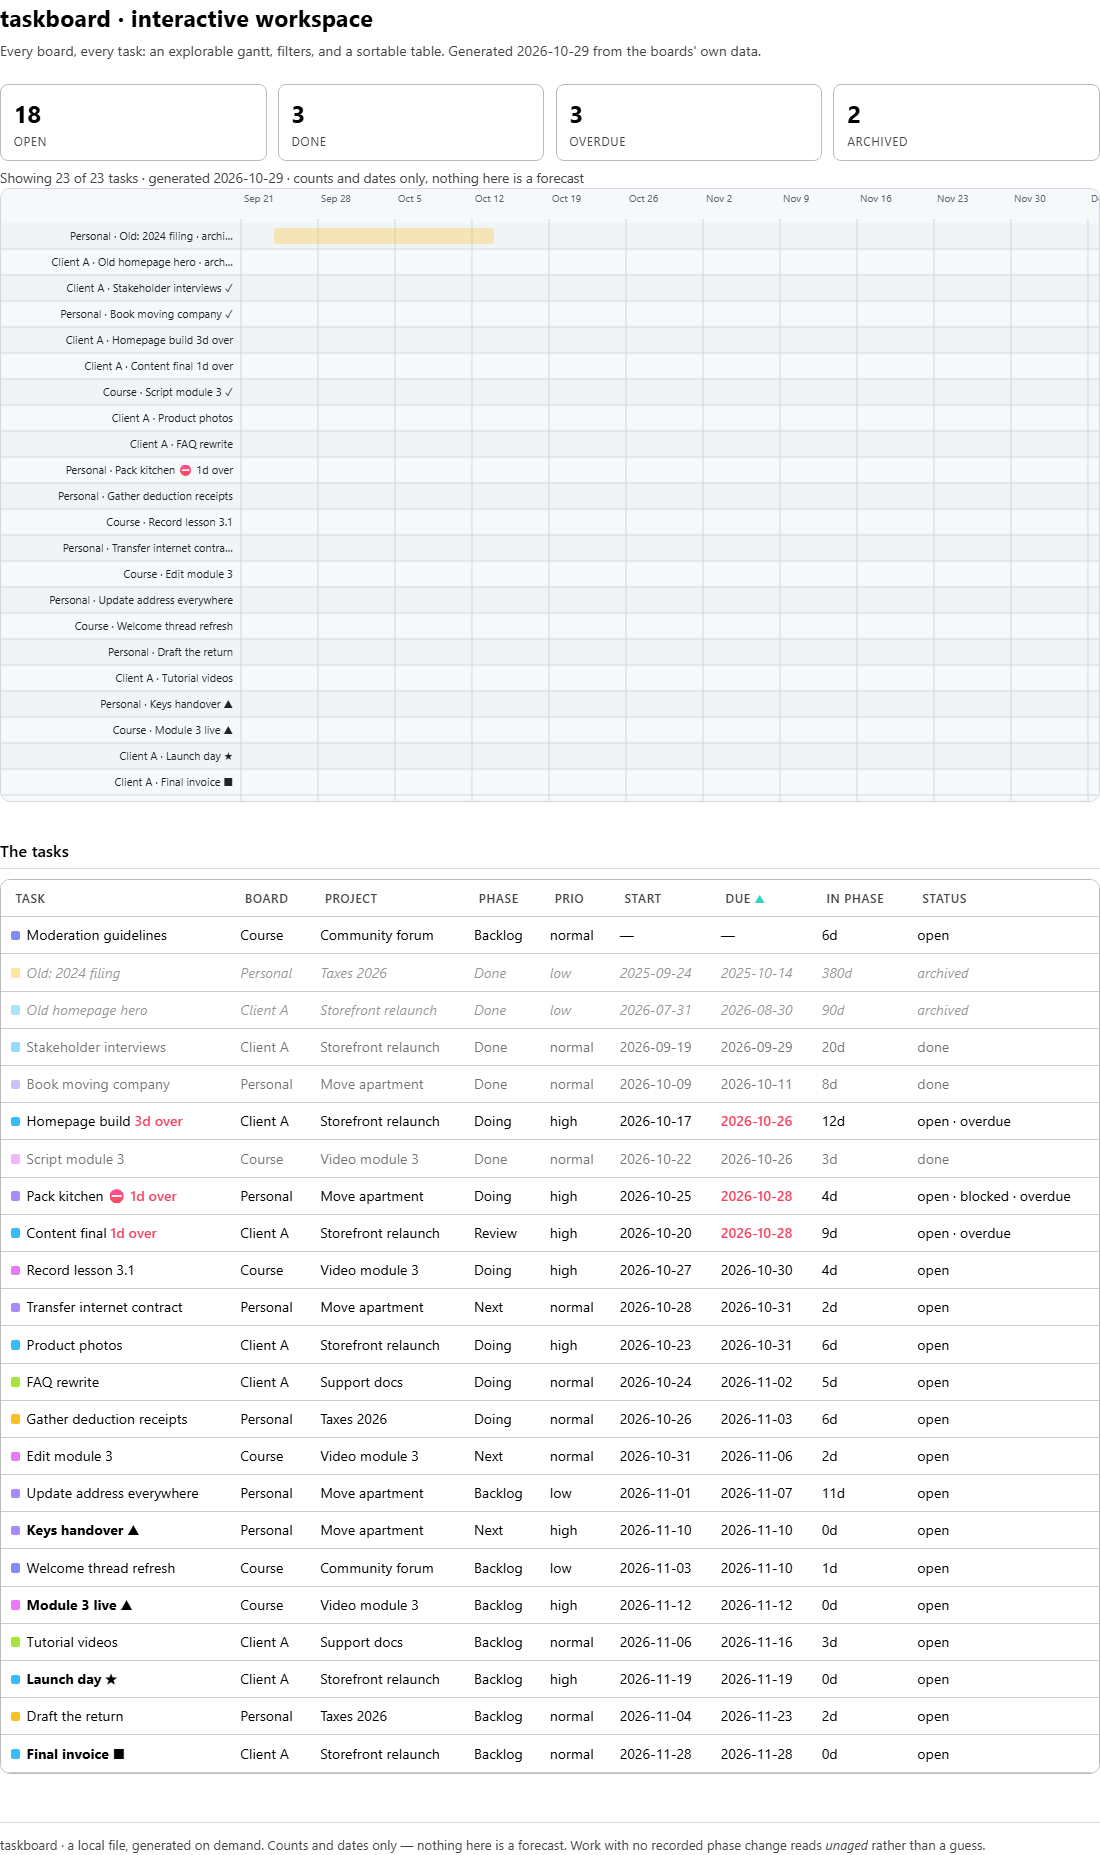
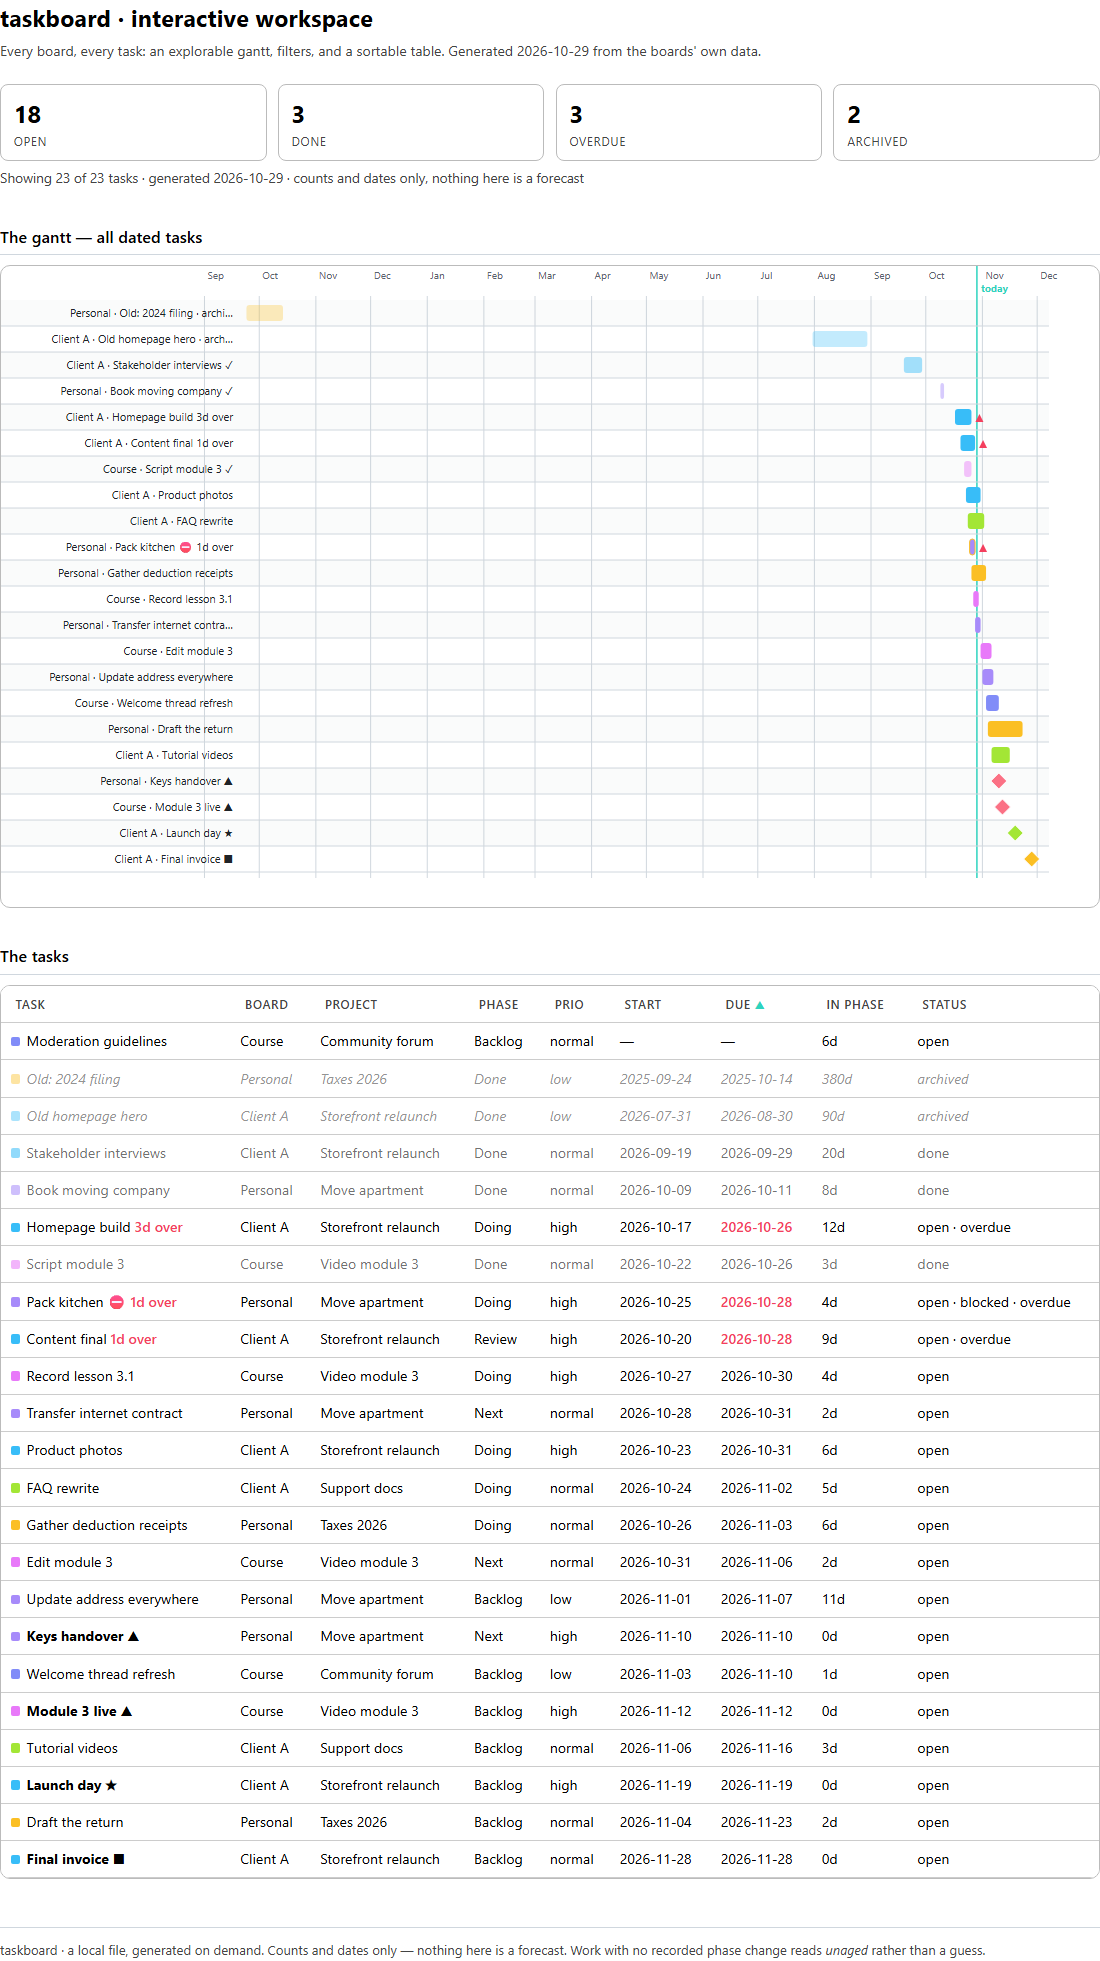
proto(html-report): B prints the full gantt — expand the timeline in @media print

diff --git a/prototypes/html_report/out/b-report.html b/prototypes/html_report/out/b-report.html
@@ -94,7 +94,7 @@ footer{color:var(--mut);font-size:.82rem;margin-top:3rem;border-top:1px solid va
 .gweekend{fill:rgba(139,152,165,.07)}
 @media print{
   body{background:#fff;color:#000;padding:0}
-  .controls,#ganttsec,#tt,#modal,.dl,.zbtn{display:none!important}
+  .controls,#tt,#modal,.dl,.zbtn{display:none!important}
   .tile,.tbl-wrap,table,.card{background:#fff;border-color:#bbb}
   th,td{border-color:#ccc}
   .sub,.tile .k,th button,.showing,footer{color:#444}
@@ -103,6 +103,13 @@ footer{color:var(--mut);font-size:.82rem;margin-top:3rem;border-top:1px solid va
   h2{break-after:avoid}
   .tiles{break-inside:avoid}
   a{color:#000;text-decoration:none}
+  /* the gantt prints COMPLETE, not clipped: drop the on-screen scroll window,
+     neutralise the JS min-width, and scale the whole svg to the page width.
+     the svg carries fixed width/height attributes, so it has an intrinsic
+     aspect ratio and height:auto keeps the timeline proportional. */
+  .gantt-wrap{overflow:visible;background:#fff;border-color:#bbb}
+  #gantt{min-width:0!important}
+  #gantt svg{width:100%;height:auto;max-width:none}
 }
 </style></head>
 <body><main>

diff --git a/prototypes/html_report/variant_b/build.py b/prototypes/html_report/variant_b/build.py
@@ -228,7 +228,7 @@ footer{color:var(--mut);font-size:.82rem;margin-top:3rem;border-top:1px solid va
 .gweekend{fill:rgba(139,152,165,.07)}
 @media print{
   body{background:#fff;color:#000;padding:0}
-  .controls,#ganttsec,#tt,#modal,.dl,.zbtn{display:none!important}
+  .controls,#tt,#modal,.dl,.zbtn{display:none!important}
   .tile,.tbl-wrap,table,.card{background:#fff;border-color:#bbb}
   th,td{border-color:#ccc}
   .sub,.tile .k,th button,.showing,footer{color:#444}
@@ -237,6 +237,13 @@ footer{color:var(--mut);font-size:.82rem;margin-top:3rem;border-top:1px solid va
   h2{break-after:avoid}
   .tiles{break-inside:avoid}
   a{color:#000;text-decoration:none}
+  /* the gantt prints COMPLETE, not clipped: drop the on-screen scroll window,
+     neutralise the JS min-width, and scale the whole svg to the page width.
+     the svg carries fixed width/height attributes, so it has an intrinsic
+     aspect ratio and height:auto keeps the timeline proportional. */
+  .gantt-wrap{overflow:visible;background:#fff;border-color:#bbb}
+  #gantt{min-width:0!important}
+  #gantt svg{width:100%;height:auto;max-width:none}
 }
 """
 
